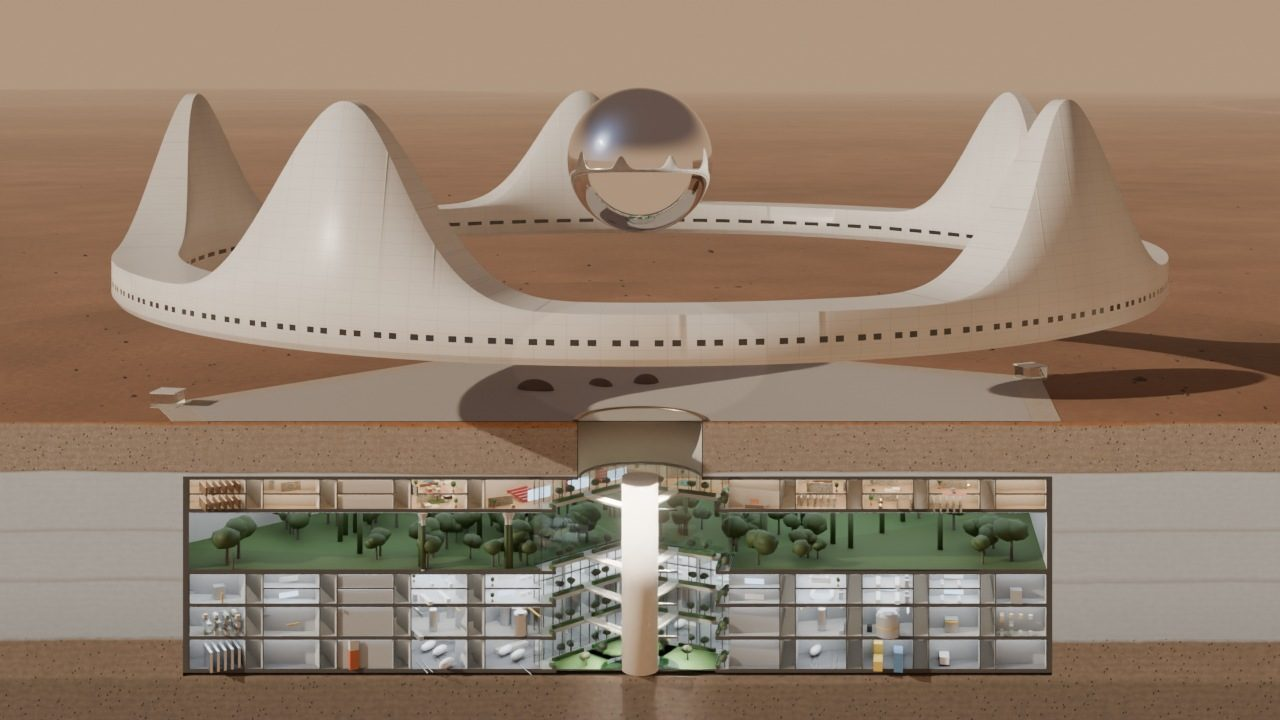
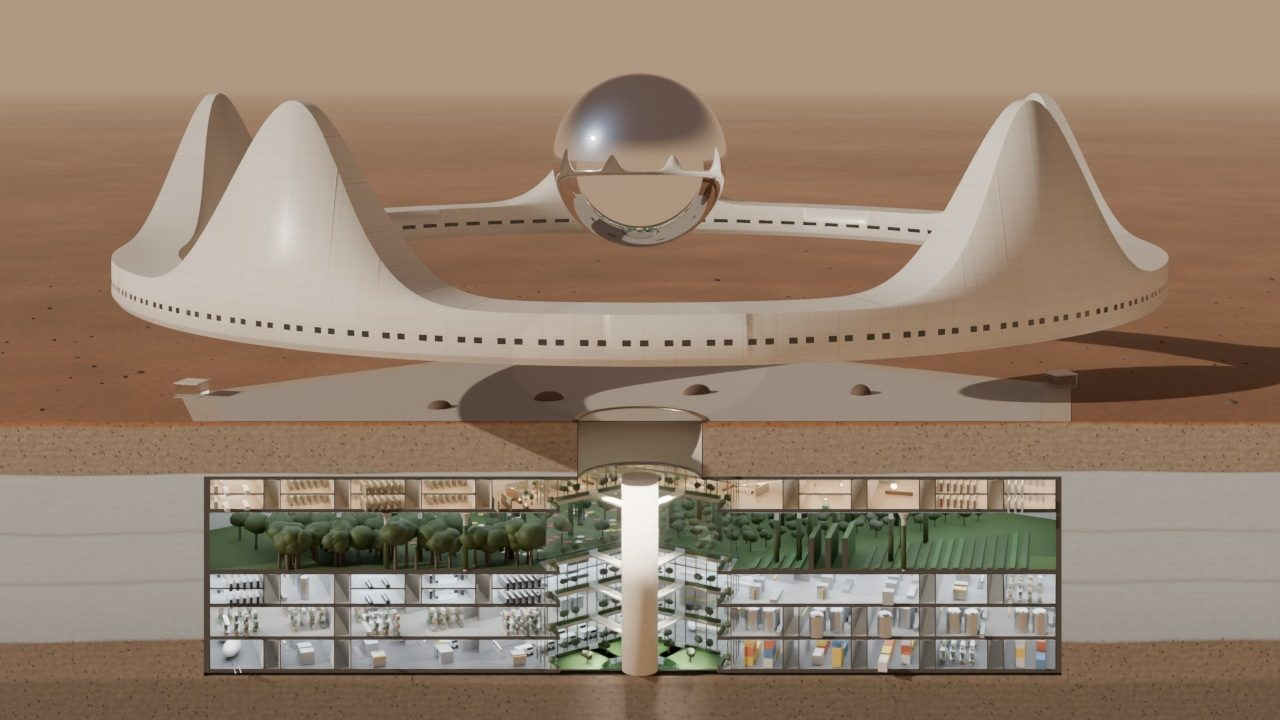
Arcadia turns again with the 48 m Orb: 24 new frames, 15 degrees apart
The explorer's frames from the 72-frame turntable, every third one
(f00, f03 ... f69) with their label positions; the other 48 follow.
Chapter 03 dates the dig as chapter 10 does (2024).

Claude-Session: https://claude.ai/code/session_01U4NrzcFVFwFYPq6dhgJtP1

diff --git a/palace/design/pentagon.html b/palace/design/pentagon.html
@@ -103,7 +103,7 @@
           <li><b>Build.</b> The walls, floors and roof are thick sintered-regolith panels made in the foundry from the soil that was dug out, tied together as one stiff block, then lined, insulated and sealed.</li>
           <li><b>Cover.</b> The roof is covered with 16 m of the dug soil, rolled in layers. On top go a paved pentagon 4 m wider than the block, so the ground shows where Arcadia lies, the Stone Garden inside it, the Orb's dock round the Sun Well, a glass pavilion over each corner stair, and the Crown's pads.</li>
         </ol>
-        <p>Digging starts before Jim arrives, in the first two years of robot work (chapter 10). L4 and L5, which hold life support and the transit halls, are finished first; the gardens take the longest to grow.</p>
+        <p>Digging starts in 2024, a year after the first robots land and three before Jim arrives (chapter 10). L4 and L5, which hold life support and the transit halls, are finished first; the gardens take the longest to grow.</p>
       </div>
       <figure class="fig"><svg id="fDig" viewBox="0 0 620 460" role="img" aria-label="The four stages of building the Pentagon"></svg><figcaption><b>Four stages</b>, in section. The soil that comes out becomes the walls and the cover; the ice becomes the water store and the rocket fuel.</figcaption></figure>
     </div>
